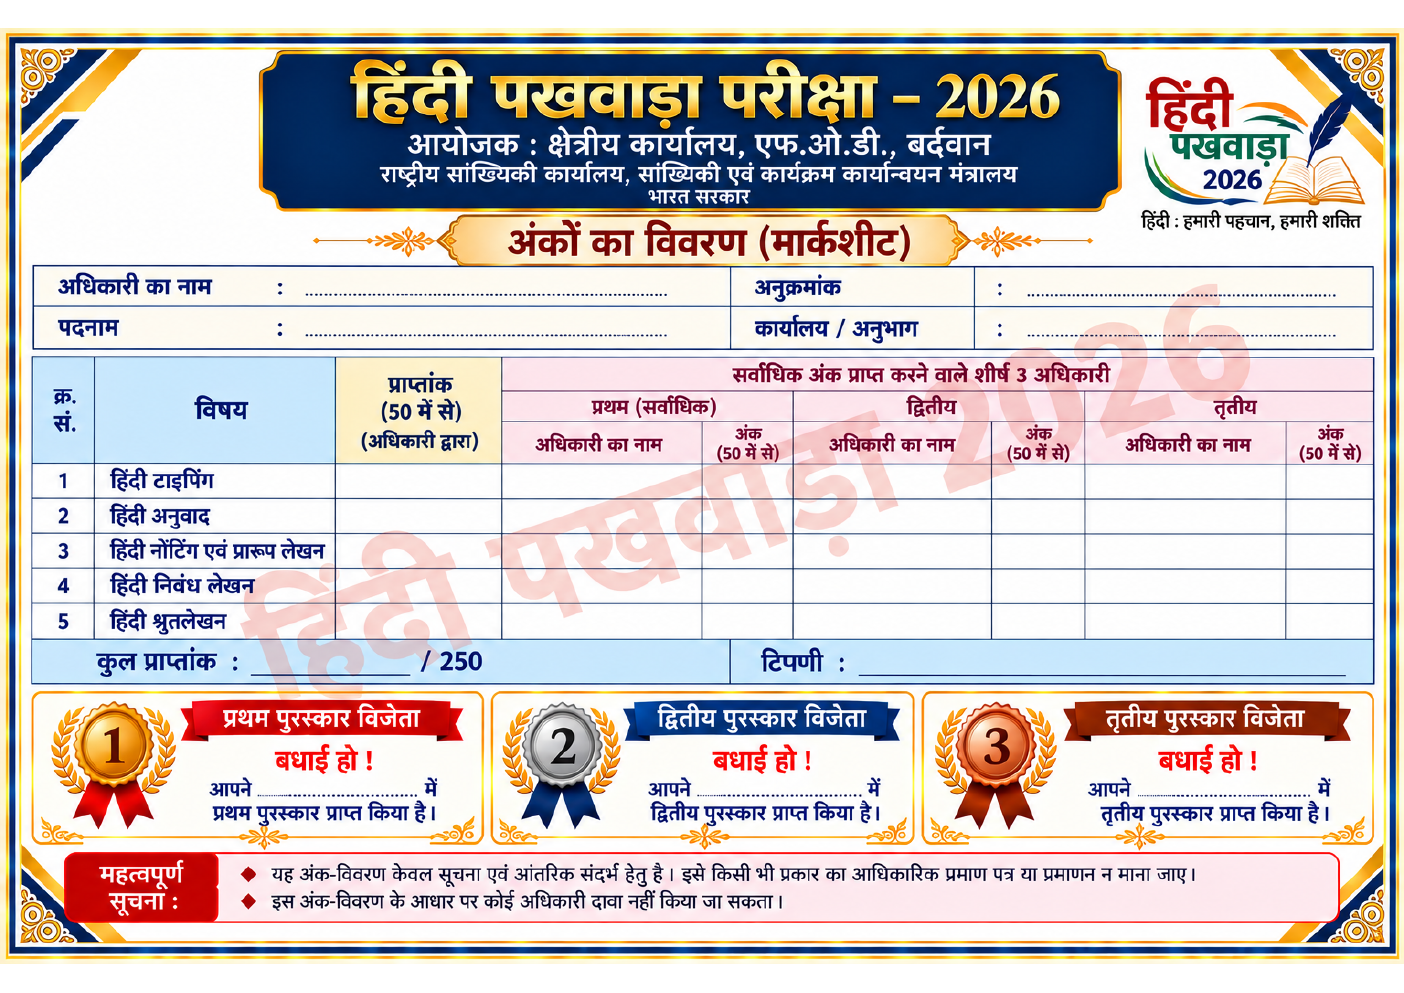
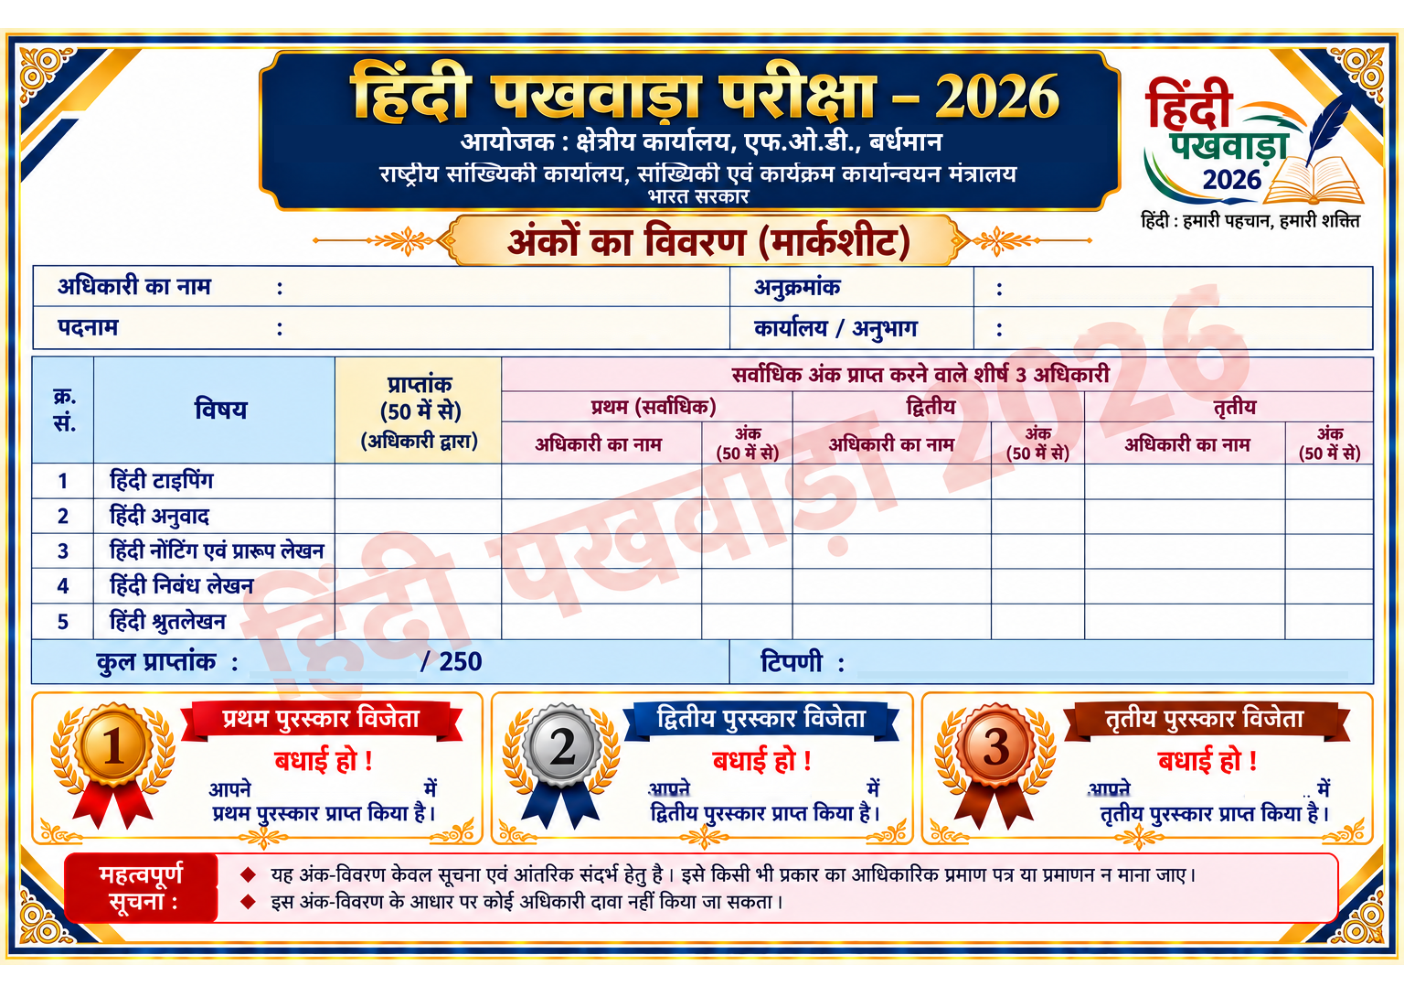
Add files via upload

diff --git a/hindi-pakhwada-result.js b/hindi-pakhwada-result.js
@@ -32,7 +32,7 @@ function drawMarksheet(d,r){const W=210,M=12;d.setFillColor(59,7,100);d.rect(0,0
 function loadTemplateImage(src){return new Promise((resolve,reject)=>{const im=new Image();im.onload=()=>{const c=document.createElement('canvas');c.width=im.naturalWidth;c.height=im.naturalHeight;c.getContext('2d').drawImage(im,0,0);resolve({data:c.toDataURL('image/png'),width:im.naturalWidth,height:im.naturalHeight});};im.onerror=()=>reject(new Error(`Could not load marksheet template image: ${src}`));im.src=src;});}
 function fitText(d,text,x,y,maxWidth,fontSize=5.3){d.setFontSize(fontSize);const t=String(text??'').trim();if(!t)return;const lines=d.splitTextToSize(t,maxWidth);d.text(lines.slice(0,1),x,y);}
 async function drawOfficialMarksheet(d,r){
- const [p1,p2]=await Promise.all([loadTemplateImage('hindi-pakhwada-page1.png'),loadTemplateImage('hindi-pakhwada-page2.png')]);
+ const [p1,p2]=await Promise.all([loadTemplateImage('hindi-pakhwada-page1.png?v=20261017-corrected-template'),loadTemplateImage('hindi-pakhwada-page2.png?v=20261017-corrected-template')]);
  // Compose page 1 on a browser canvas. Canvas uses the browser's Unicode text
  // shaping, so Hindi/Devanagari characters render correctly (jsPDF Helvetica does not).
  const img=new Image(); img.src=p1.data; await new Promise((resolve,reject)=>{img.onload=resolve;img.onerror=reject;});
